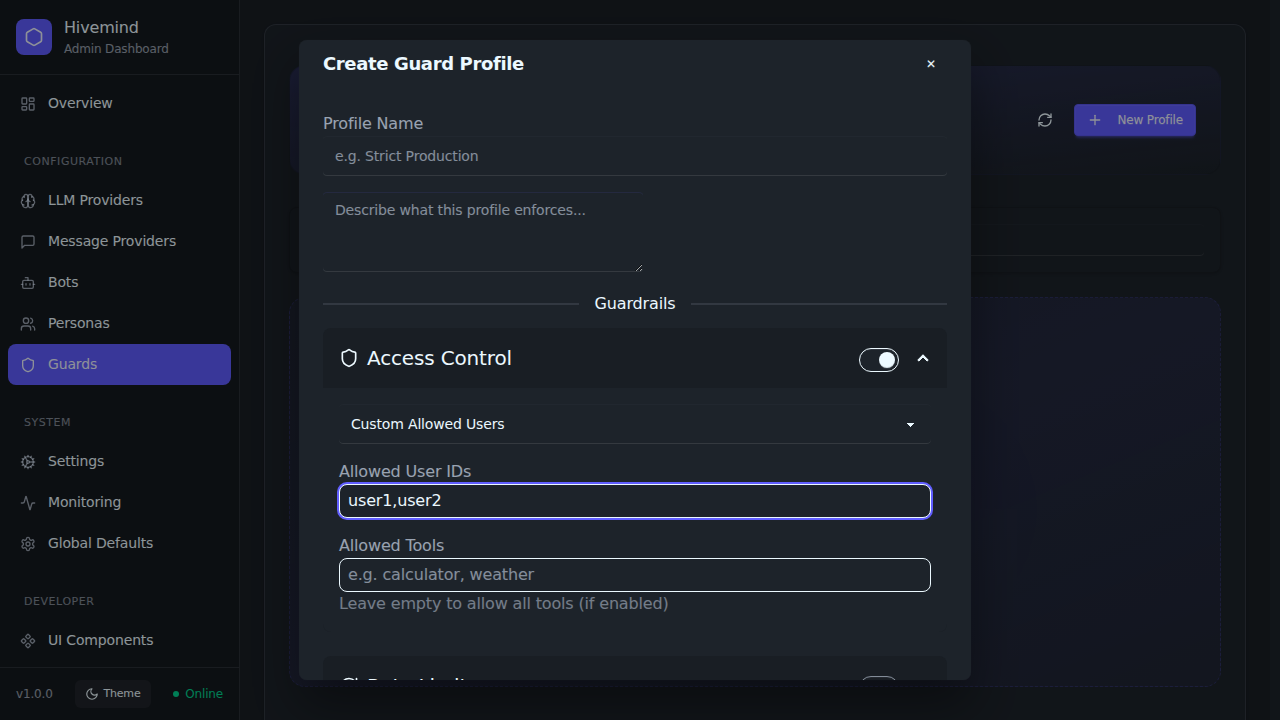
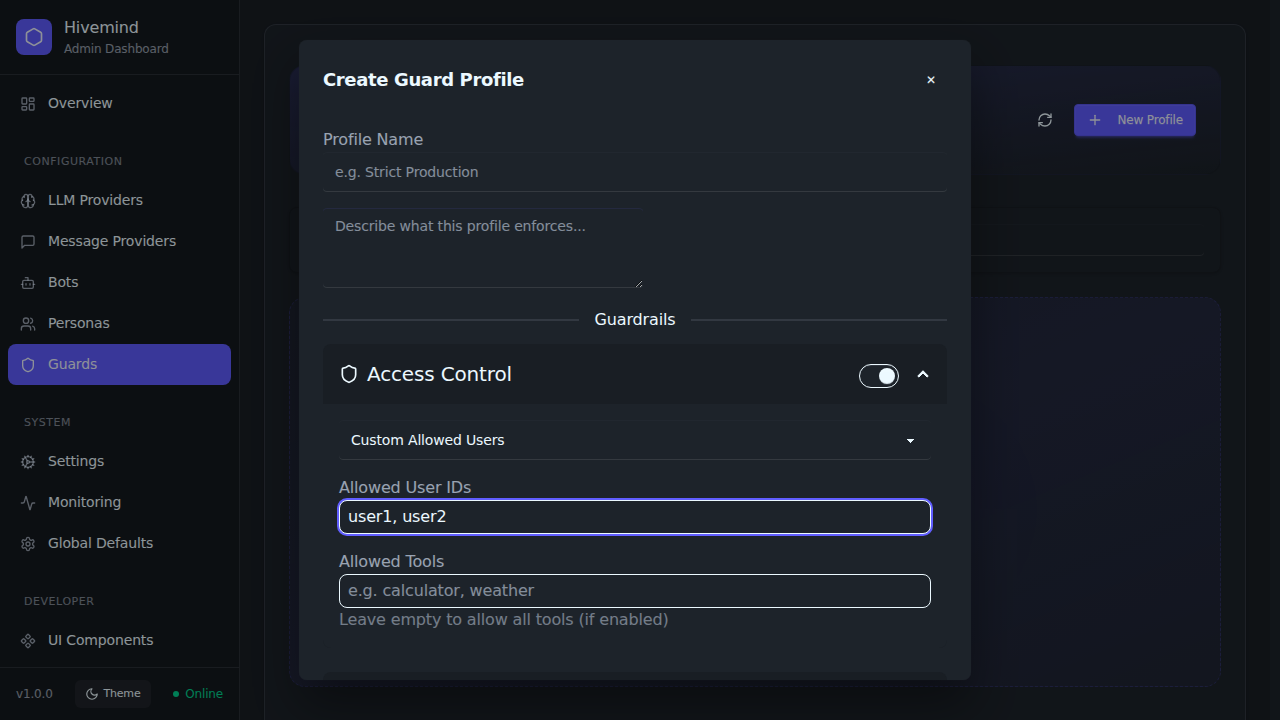
Refiner (Authentication Flow Edge Cases): Fix auto-formatting for CommaSeparatedInput (#1535)
* fix: auto-format comma separated inputs to append a space

* feat(CommaSeparatedInput): add normalize prop + newline paste split + maxTokenLength

- normalize prop: configurable token normalization (default: trim)
- paste handler: splits on both comma and newline for spreadsheet paste support
- maxTokenLength: truncates tokens to prevent layout-breaking long values

Widens scope of PR #1535 auto-formatting fix.

* fix: auto-format comma separated inputs to append a space\n\nAlso fix incorrect Github import in MarketplacePage.

* feat(CommaSeparatedInput): auto-commit chips on comma, add testId prop

- handleInputChange: when comma typed, split segments and commit all
  complete tokens via commitInput(), leave trailing text in input field
  (replaces auto-space-after-comma which didn't actually create chips)
- Add testId prop (defaults to 'csi-input') for reliable test targeting

---------

diff --git a/src/client/src/components/Common/CommaSeparatedInput.tsx b/src/client/src/components/Common/CommaSeparatedInput.tsx
@@ -7,6 +7,7 @@ export interface CommaSeparatedInputProps {
   placeholder?: string;
   disabled?: boolean;
   id?: string;
+  testId?: string;
   className?: string;
   suggestions?: string[];
   tagColor?: (tag: string) => string;
@@ -74,24 +75,16 @@ export const CommaSeparatedInput: React.FC<CommaSeparatedInputProps> = ({
       return;
     }
 
-    // Split by comma, preserving empty strings so we can see if there is trailing text
-    const parts = textToCommit.split(',');
+    const current = textToCommit
+      .split(',')
+      .map(s => s.trim())
+      .filter(Boolean);
 
-    // The trailing text is the last part after the last comma
-    const trailingText = parts.length > 1 ? parts.pop() || '' : '';
-
-    // The items to commit are the parts before the last comma
-    const itemsToCommit = parts.map(s => s.trim()).filter(Boolean);
-
-    commitItems(itemsToCommit, trailingText);
-  };
-
-  const commitItems = (items: string[], trailingText: string) => {
     const next = [...value];
     let changed = false;
     let localError: string | null = null;
 
-    for (const item of items) {
+    for (const item of current) {
       if (validate) {
         const validationError = validate(item);
         if (validationError) {
@@ -114,7 +107,7 @@ export const CommaSeparatedInput: React.FC<CommaSeparatedInputProps> = ({
         pushToHistory(next);
         onChange(next);
       }
-      setInputValue(trailingText);
+      setInputValue('');
       setShowSuggestions(false);
     }
   };
@@ -174,15 +167,22 @@ export const CommaSeparatedInput: React.FC<CommaSeparatedInputProps> = ({
   };
 
   const handleInputChange = (e: React.ChangeEvent<HTMLInputElement>) => {
-    const val = e.target.value;
-    if (val.includes(',')) {
-      commitInput(val);
-    } else {
-      setInputValue(val);
-      setShowSuggestions(true);
-      if (internalError) {
-        setInternalError(null);
-      }
+    const isDeleting = (e.nativeEvent as InputEvent).inputType?.startsWith('delete');
+    const newValue = e.target.value;
+
+    if (!isDeleting && newValue.includes(',')) {
+      const segments = newValue.split(',');
+      const trailing = segments.pop() ?? '';
+      const toCommit = segments.map(s => s.trim()).filter(Boolean).join(',');
+      if (toCommit) commitInput(toCommit);
+      setInputValue(trailing.trimStart());
+      return;
+    }
+
+    setInputValue(newValue);
+    setShowSuggestions(true);
+    if (internalError) {
+      setInternalError(null);
     }
   };
 
@@ -230,7 +230,7 @@ export const CommaSeparatedInput: React.FC<CommaSeparatedInputProps> = ({
         })}
         <input
           id={id}
-          data-testid="csi-input"
+          data-testid={testId ?? "csi-input"}
           className="flex-1 bg-transparent outline-none min-w-[120px] px-1"
           value={inputValue}
           onChange={handleInputChange}
